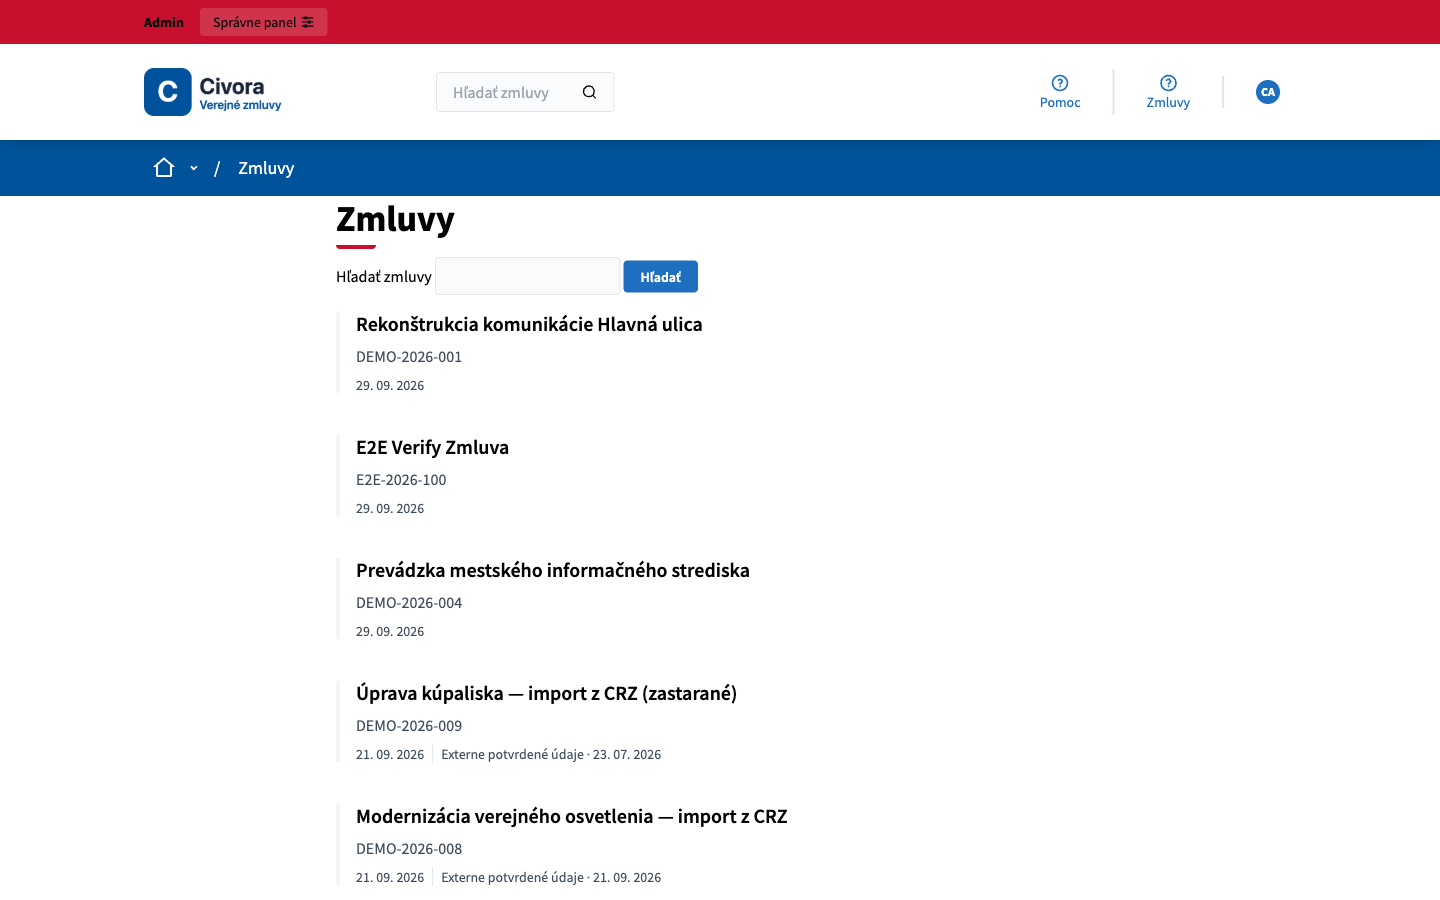
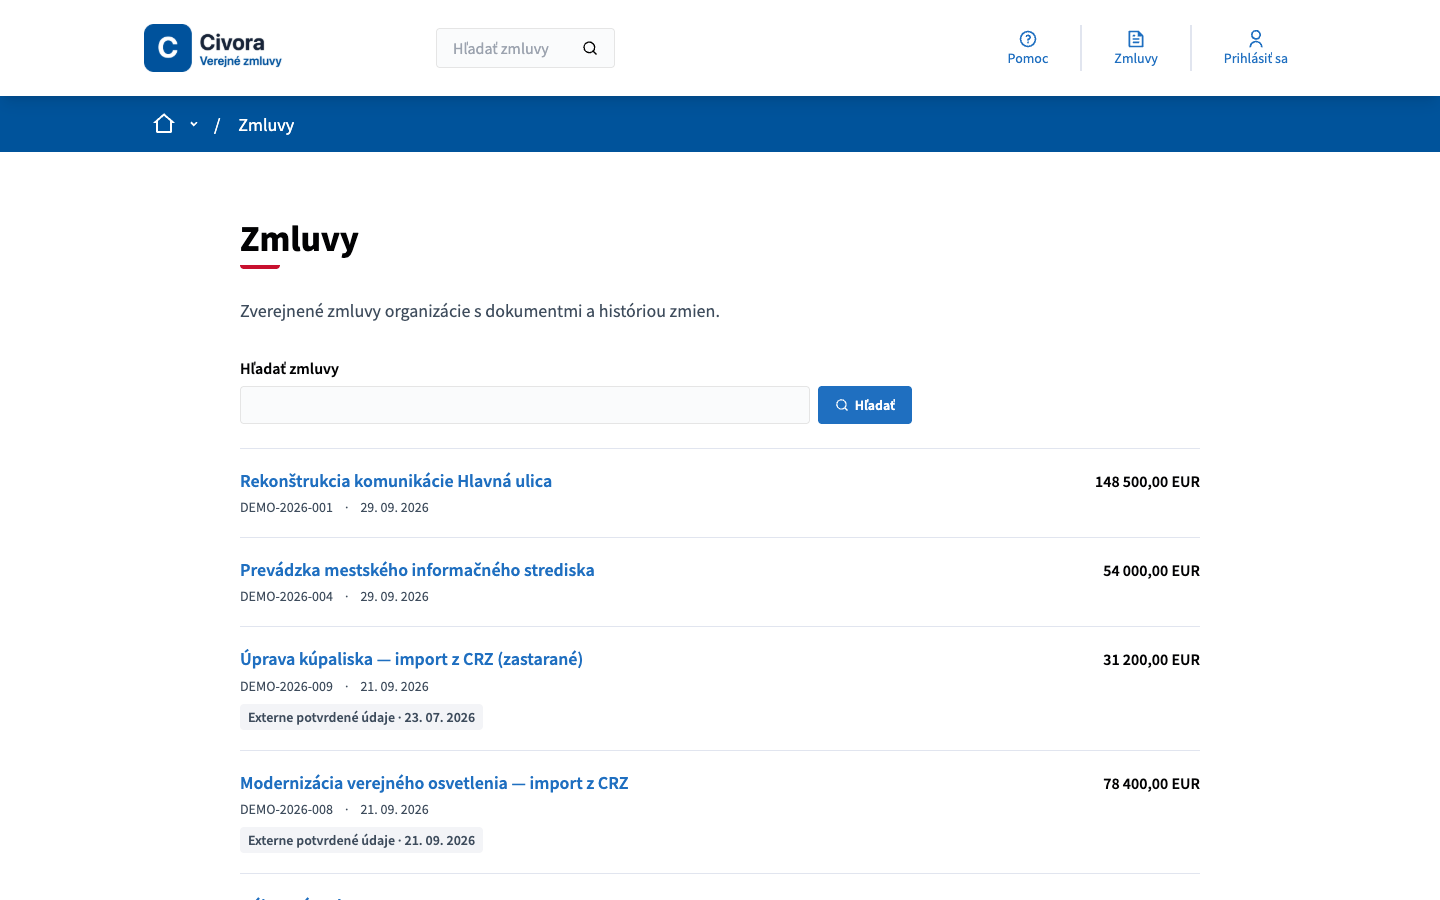
feat: refresh catalogue and contract-detail screenshots
New captures of the redesigned public catalogue (register with amounts)
and contract detail (key-facts panel, CRZ provenance notice), taken
logged out at 1440x900 on fictional demo data. The catalogue alt text no
longer mentions filters the page does not have.

diff --git a/index.html b/index.html
@@ -41,7 +41,7 @@
     </div>
   </div>
   <div class="shot">
-    <img src="img/catalogue-sk.png" width="1440" height="900" alt="Verejný katalóg zmlúv s vyhľadávaním a filtrami (ukážkové dáta)">
+    <img src="img/catalogue-sk.png" width="1440" height="900" alt="Verejný katalóg zmlúv s vyhľadávaním a sumami zmlúv (ukážkové dáta)">
   </div>
 </div>
 
